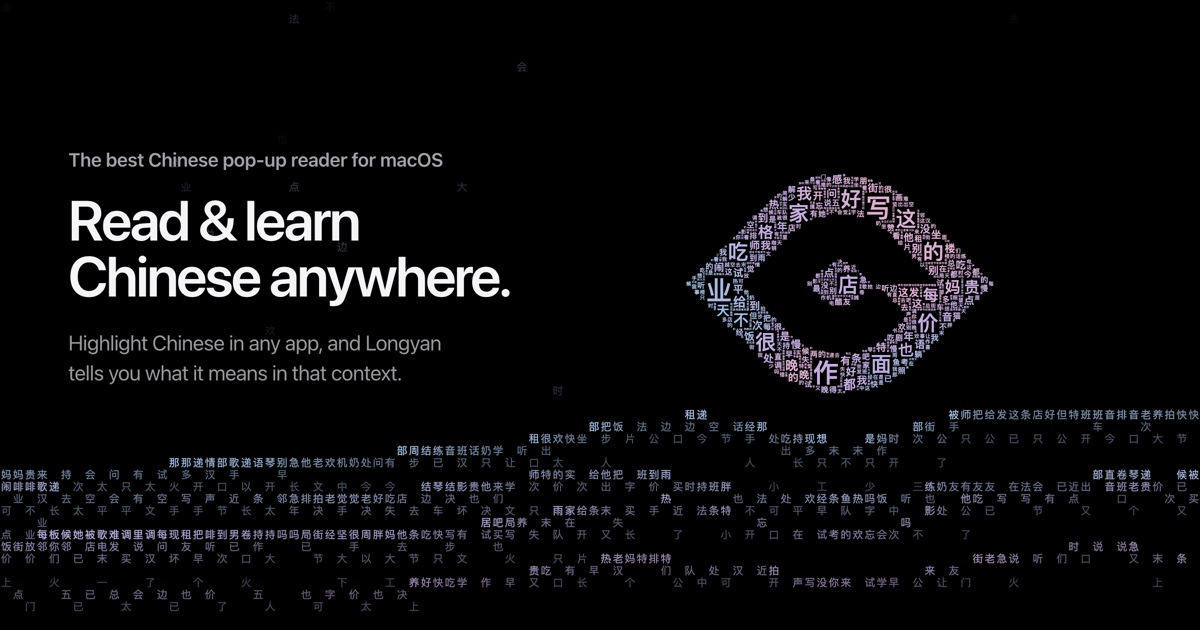
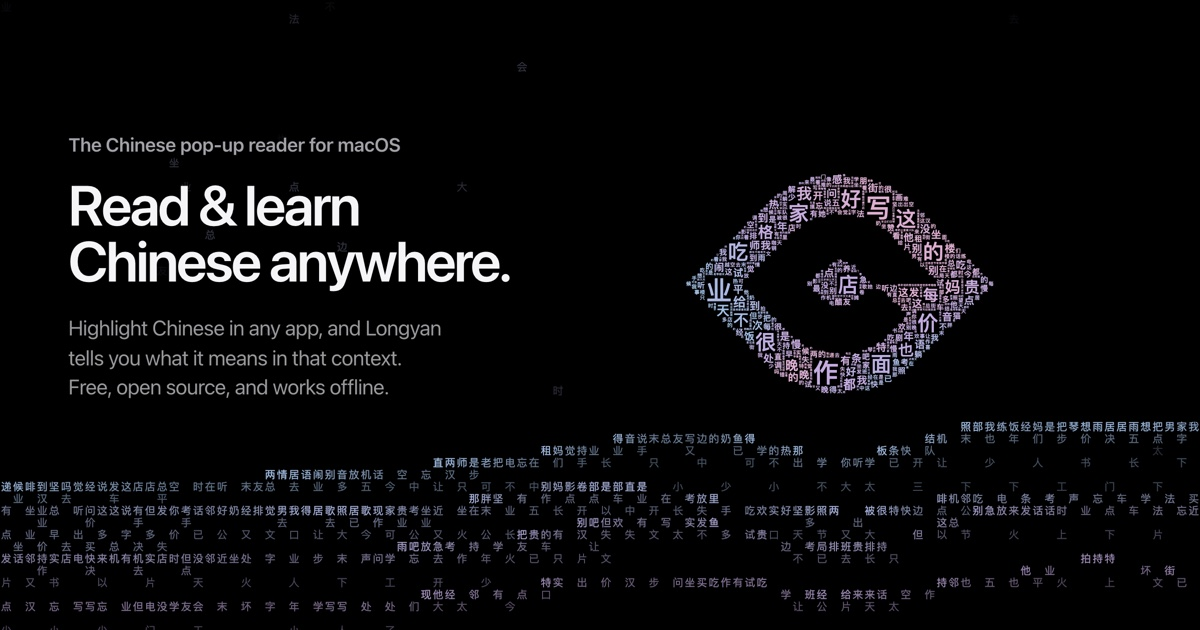
Free and offline folded into the hero line; "shows you which one"
"The Chinese pop-up reader for macOS" without "best". "Free, open source, and works
offline." ends the line under the headline instead of standing under the buttons. The
statement's second line reads "Longyan shows you which one your sentence means," with
"which one" in blue. New social preview to match.

diff --git a/site/index.html b/site/index.html
@@ -13,7 +13,7 @@
 <meta name="twitter:card" content="summary_large_image">
 <link rel="icon" type="image/png" href="images/favicon.png">
 <link rel="apple-touch-icon" href="images/icon.png">
-<link rel="stylesheet" href="style.css?v=1118b">
+<link rel="stylesheet" href="style.css?v=1118c">
 <script>
   // Scroll motion, unless the visitor asked for less (or ?still, for screenshots).
   if (!matchMedia("(prefers-reduced-motion: reduce)").matches && !/[?&]still/.test(location.search)) document.documentElement.classList.add("motion");
@@ -39,14 +39,13 @@
     <canvas id="field" aria-hidden="true"></canvas>
     <p class="hint" id="hint" aria-hidden="true"><span class="fine-pointer">Point at a word in the eye.</span><span class="coarse-pointer">Tap a word in the eye.</span></p>
     <div class="hero-copy">
-      <p class="eyebrow">The best Chinese pop-up reader for macOS</p>
+      <p class="eyebrow">The Chinese pop-up reader for macOS</p>
       <h1><span class="rise"><span>Read &amp; learn</span></span> <span class="rise"><span>Chinese anywhere.</span></span></h1>
-      <p class="hero-sub">Highlight Chinese in any app, and Longyan tells you what it means in that context.</p>
+      <p class="hero-sub">Highlight Chinese in any app, and Longyan tells you what it means in that context. Free, open source, and works offline.</p>
       <div class="hero-actions">
         <a class="button" href="#try" data-try>See how it works <svg viewBox="0 0 16 16" aria-hidden="true"><path d="M8 3v10M3.5 8.5 8 13l4.5-4.5"/></svg></a>
         <a class="button-quiet" href="https://github.com/mapuchuu/longyan-reader/releases/latest/download/LongyanReader.zip" data-download>Download for Mac <svg viewBox="0 0 16 16" aria-hidden="true"><path d="M8 2.5v7.5M4.75 6.75 8 10l3.25-3.25M3 13.25h10"/></svg></a>
       </div>
-      <p class="fine">Free, open source, and works offline.</p>
     </div>
     <div class="try" id="try">
       <div class="try-head">
@@ -67,7 +66,7 @@
       <div class="lit" id="lit">
         <div class="lit-lines">
           <p class="lit-line">Traditional dictionaries give you <span class="every">every</span> meaning.</p>
-          <p class="lit-line">Longyan gives you the <span class="one">one</span> your sentence means,</p>
+          <p class="lit-line">Longyan shows you <span class="one">which one</span> your sentence means,</p>
           <p class="lit-line">and flags words that need more <span class="ctx">context</span>.</p>
         </div>
         <div class="lit-progress" aria-hidden="true"><i><b></b></i><i><b></b></i><i><b></b></i></div>
@@ -226,11 +225,11 @@
   </div>
 </footer>
 
-<script src="data.js?v=1118b"></script>
-<script src="card.js?v=1118b"></script>
-<script src="hero.js?v=1118b"></script>
-<script src="try.js?v=1118b"></script>
-<script src="paper.js?v=1118b"></script>
-<script src="motion.js?v=1118b"></script>
+<script src="data.js?v=1118c"></script>
+<script src="card.js?v=1118c"></script>
+<script src="hero.js?v=1118c"></script>
+<script src="try.js?v=1118c"></script>
+<script src="paper.js?v=1118c"></script>
+<script src="motion.js?v=1118c"></script>
 </body>
 </html>

diff --git a/site/style.css b/site/style.css
@@ -103,8 +103,6 @@ h1 { font-size: min(72px, 4.7vw); line-height: 1; letter-spacing: -0.04em; }
 .hero-actions { display: flex; align-items: flex-start; gap: 28px; flex-wrap: wrap; }
 .button svg { width: 15px; height: 15px; margin-left: 7px; fill: none; stroke: currentColor; stroke-width: 1.7; stroke-linecap: round; stroke-linejoin: round; transition: transform .3s var(--ease-out); }
 .button:hover svg { transform: translateY(2px); }
-/* Under the buttons, in line with the text above. */
-.hero-copy > .fine { margin: 18px 0 0 2px; font-size: 14px; color: #a1a1a6; }
 .hero-actions .button-quiet { height: 50px; }
 .button-quiet { display: inline-flex; align-items: center; gap: 6px; font-size: 17px; font-weight: 500; text-decoration: none; color: rgba(245, 245, 247, .86); transition: color .2s; }
 .button-quiet svg { width: 15px; height: 15px; fill: none; stroke: currentColor; stroke-width: 1.6; stroke-linecap: round; stroke-linejoin: round; transition: transform .3s var(--ease-out); }

diff --git a/site/DESIGN.md b/site/DESIGN.md
@@ -23,7 +23,7 @@ Paper backdrops (`paper.js`) are five-stop ramps, deep to light: azure, rose, gr
 ## Layout
 
 1. **Story.** Pinned while it plays. The Longyan eye over a range of mountains, all of it in Chinese characters. The mountains are a halftone made of characters: light ones (一, 人) where it's dim, dense ones where it's bright, none where it's dark, with mist drifting through. A few faint characters are stars. The eye is set in everyday sentences, in pearl tints, in characters of nine sizes. Every character is whole; nothing is masked or cut. On the outline a character may stand a hair past the edge (well inside the blank margin round its ink, so the outline stays crisp), so the outline takes every size from fine to large and reads as type rather than a stencil. A few small characters sit right across the point where the pupil meets the wedge, so the hook reads as one stroke, as in the icon. Characters too thin to fill their square, like 一 and 人, are left out of it. It comes in left to right. Pointing at a character shows the word it's part of and what it means in that sentence, from the app. Scrolling breaks the eye up, and its characters float out from all over, in arcs, into one large sentence (up to 64px on a wide screen, 40px on a phone). Most come from the eye's big characters, so you see them lift out of the shape. Selecting works as in any Mac text: drag across characters, double-click a word, triple-click the sentence, shift-click to extend. Let go and the app's card opens for what the app reads there, while the selection stays exactly where it was made, as in any app. One character is one character, and its card says which word it's part of (a click on that row opens the word's card in its place); a selection that cuts a word in half gets the card for the whole word, as the app widens it. Every selection the sentence allows has the app's own answer. No marks under the words. There is one sentence; no "Next sentence". It hands over from the canvas to selectable text in a single frame, with no fade, so nothing doubles or flashes; only the heading, "Highlight any chunk of Chinese text.", fades in. Then it plays on its own while the page holds still for 0.8 of a screen of scrolling (the page never scrolls itself): after a beat, "Highlight" is selected the way you'd drag across it; once it's selected the sentence catches the light character by character and "Try it here" comes in under it, its arrow nudging up at the sentence. It steps back once you've selected something. Two bars under the sentence fill on their own: the first with the selection (1.6 s), the second while you try it (6 s). Scrolling back above the sentence resets it to play again. The opening glides: an even pace, easing to a stop only at the end.
-2. **Statement.** Three lines, shown one at a time ("Traditional dictionaries give you every meaning." with "every" in the system purple / "Longyan gives you the one your sentence means," with "one" in the checkmark's blue / "and flags words that need more context." with "context" in green), beside the app's real word card for 躺平 in the demo sentence, built into the page. The section is pinned for three stretches of scrolling, 60vh each, one per line; three short bars under the line fill as you scroll through each stretch, so you can see how far along you are. The next line only comes once you've scrolled to the end of the last one's stretch, and never sooner than 1.2 s after it, so each line and its card change settle first; the old line lifts away and the new one rises in. The card shows a little more with each line, in that line's colour, with one light behind the meanings: first just 躺平, its pinyin and both meanings, with one purple box over both a moment after it comes in ("every" is purple too); then "to opt out of the rat race" opens in under the word as the box draws in onto that meaning on the app's spring as it turns blue, the check springs in and the other meaning steps back; then the "Cultural context" note opens in green as the blue fades. The light is a plain wash with no outline, in purple because warm hues (yellow, orange) go muddy over the dark card; each colour is its own layer, so they cross-fade without a muddy mix. Until the note is in, the card can't be clicked, so nothing breaks the sequence; after that it works like the app (and going back up resets it). Nothing in it re-wraps or snaps: it hugs its content, the space above the meaning opens with it, the pick isn't set in bold, there's no note mark, and going back up closes things smoothly. The same care holds for the card in the try section: rows restyle in place, so a pick's check springs in while the old one fades, and "Back to …" and the captions open and close. The content is set from the top, so the card grows downward and the line never moves. Scrolling back up undoes it all in order. It works the same on a phone, with the card under the line. On a wide screen the section is pulled up over the opening's last 35vh, so the first line and the card rise in right behind the demo sentence. Without motion the lines simply stack beside the whole card. A click on a meaning shows the whole card.
+2. **Statement.** Three lines, shown one at a time ("Traditional dictionaries give you every meaning." with "every" in the system purple / "Longyan shows you which one your sentence means," with "which one" in the checkmark's blue / "and flags words that need more context." with "context" in green), beside the app's real word card for 躺平 in the demo sentence, built into the page. The section is pinned for three stretches of scrolling, 60vh each, one per line; three short bars under the line fill as you scroll through each stretch, so you can see how far along you are. The next line only comes once you've scrolled to the end of the last one's stretch, and never sooner than 1.2 s after it, so each line and its card change settle first; the old line lifts away and the new one rises in. The card shows a little more with each line, in that line's colour, with one light behind the meanings: first just 躺平, its pinyin and both meanings, with one purple box over both a moment after it comes in ("every" is purple too); then "to opt out of the rat race" opens in under the word as the box draws in onto that meaning on the app's spring as it turns blue, the check springs in and the other meaning steps back; then the "Cultural context" note opens in green as the blue fades. The light is a plain wash with no outline, in purple because warm hues (yellow, orange) go muddy over the dark card; each colour is its own layer, so they cross-fade without a muddy mix. Until the note is in, the card can't be clicked, so nothing breaks the sequence; after that it works like the app (and going back up resets it). Nothing in it re-wraps or snaps: it hugs its content, the space above the meaning opens with it, the pick isn't set in bold, there's no note mark, and going back up closes things smoothly. The same care holds for the card in the try section: rows restyle in place, so a pick's check springs in while the old one fades, and "Back to …" and the captions open and close. The content is set from the top, so the card grows downward and the line never moves. Scrolling back up undoes it all in order. It works the same on a phone, with the card under the line. On a wide screen the section is pulled up over the opening's last 35vh, so the first line and the card rise in right behind the demo sentence. Without motion the lines simply stack beside the whole card. A click on a meaning shows the whole card.
 3. **Works where you read.** Full-bleed azure paper. A frosted window, cut off by the section's bottom edge, holds the recording.
 4. **Made for reading.** Four tiles: a piece of the real UI on paper, with a caption.
 5. **Install.** A grey band. The Open Anyway row from System Settings on paper, next to the four steps.
